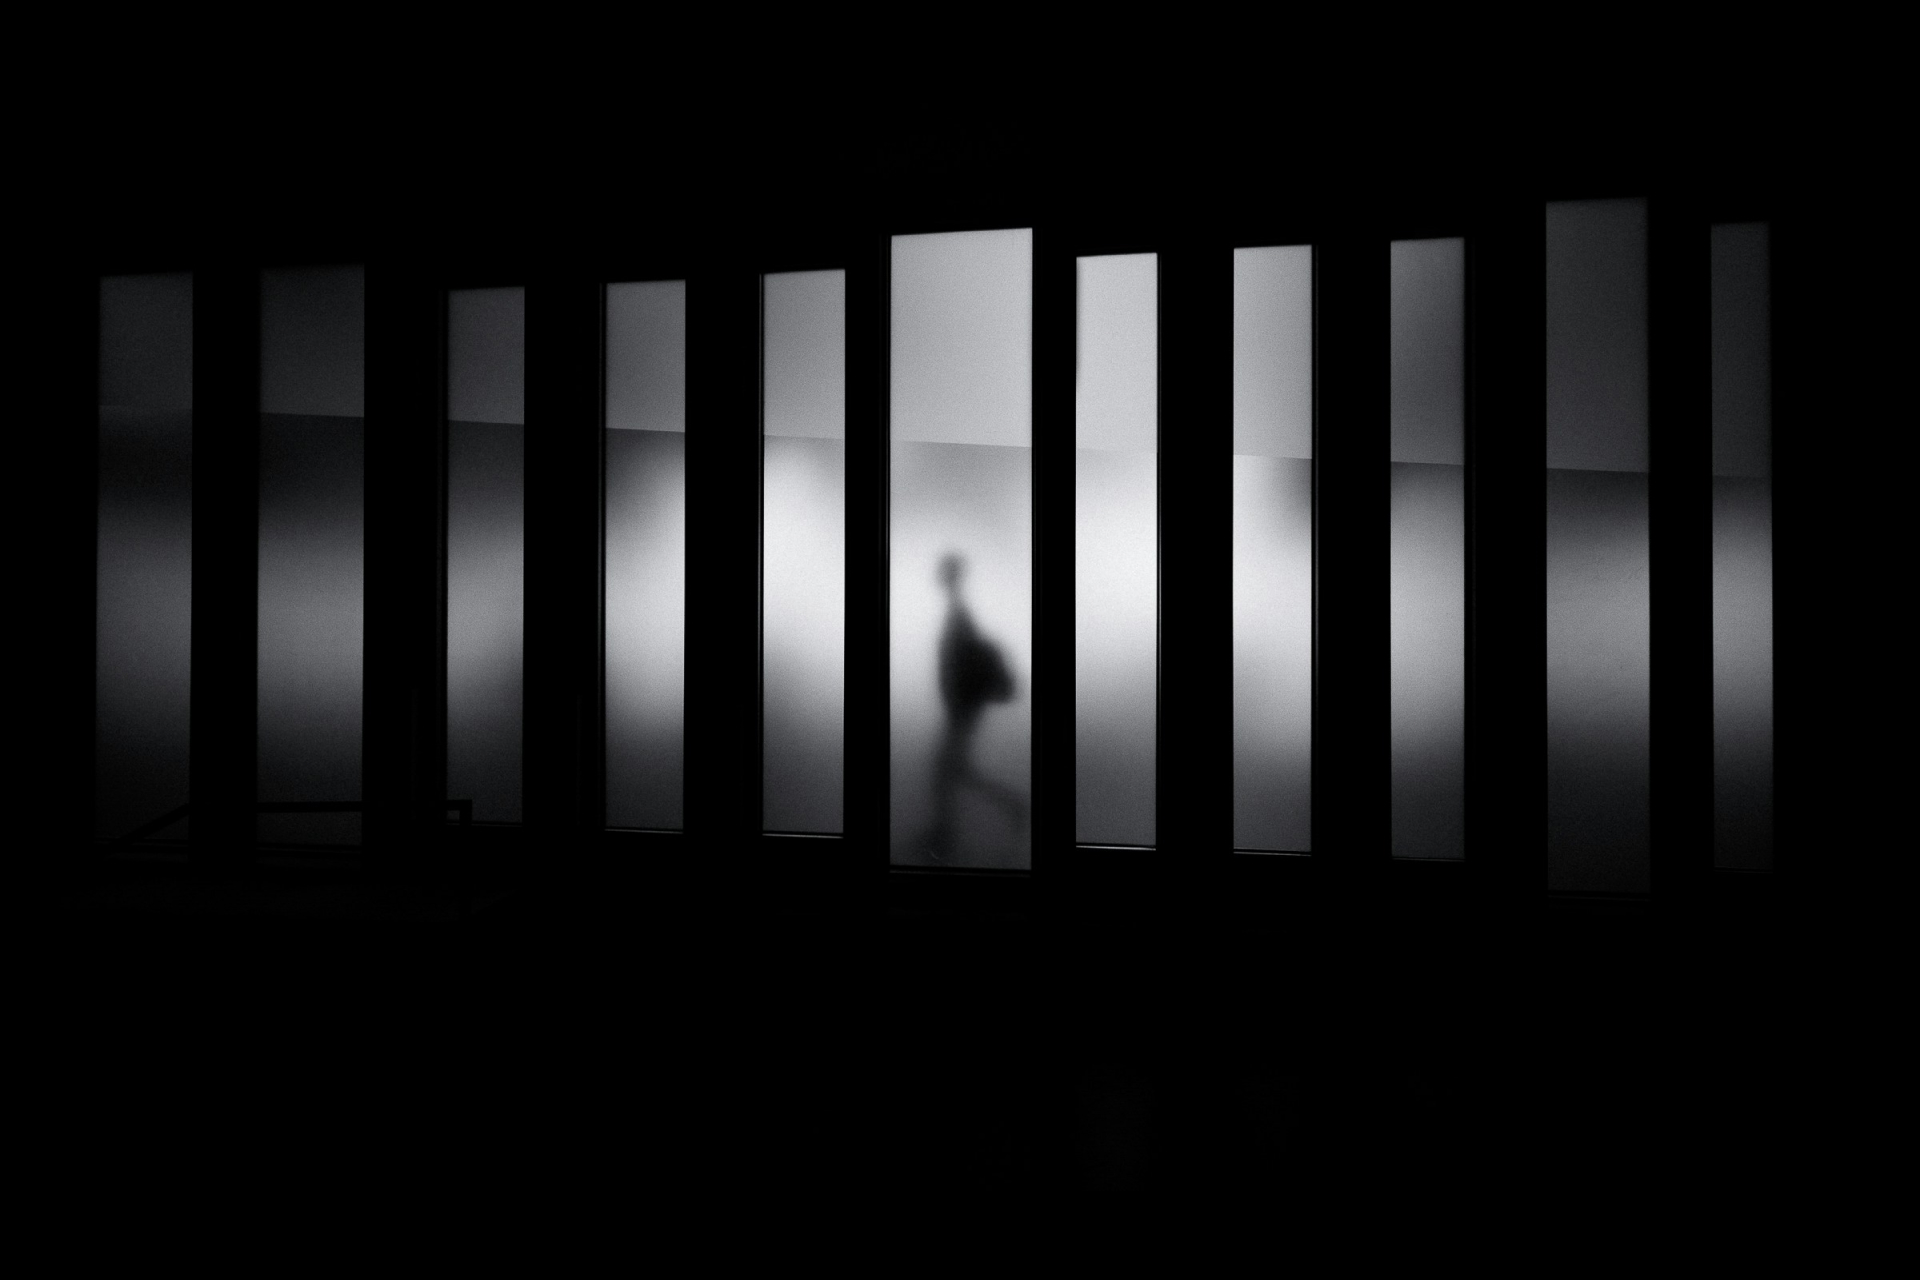
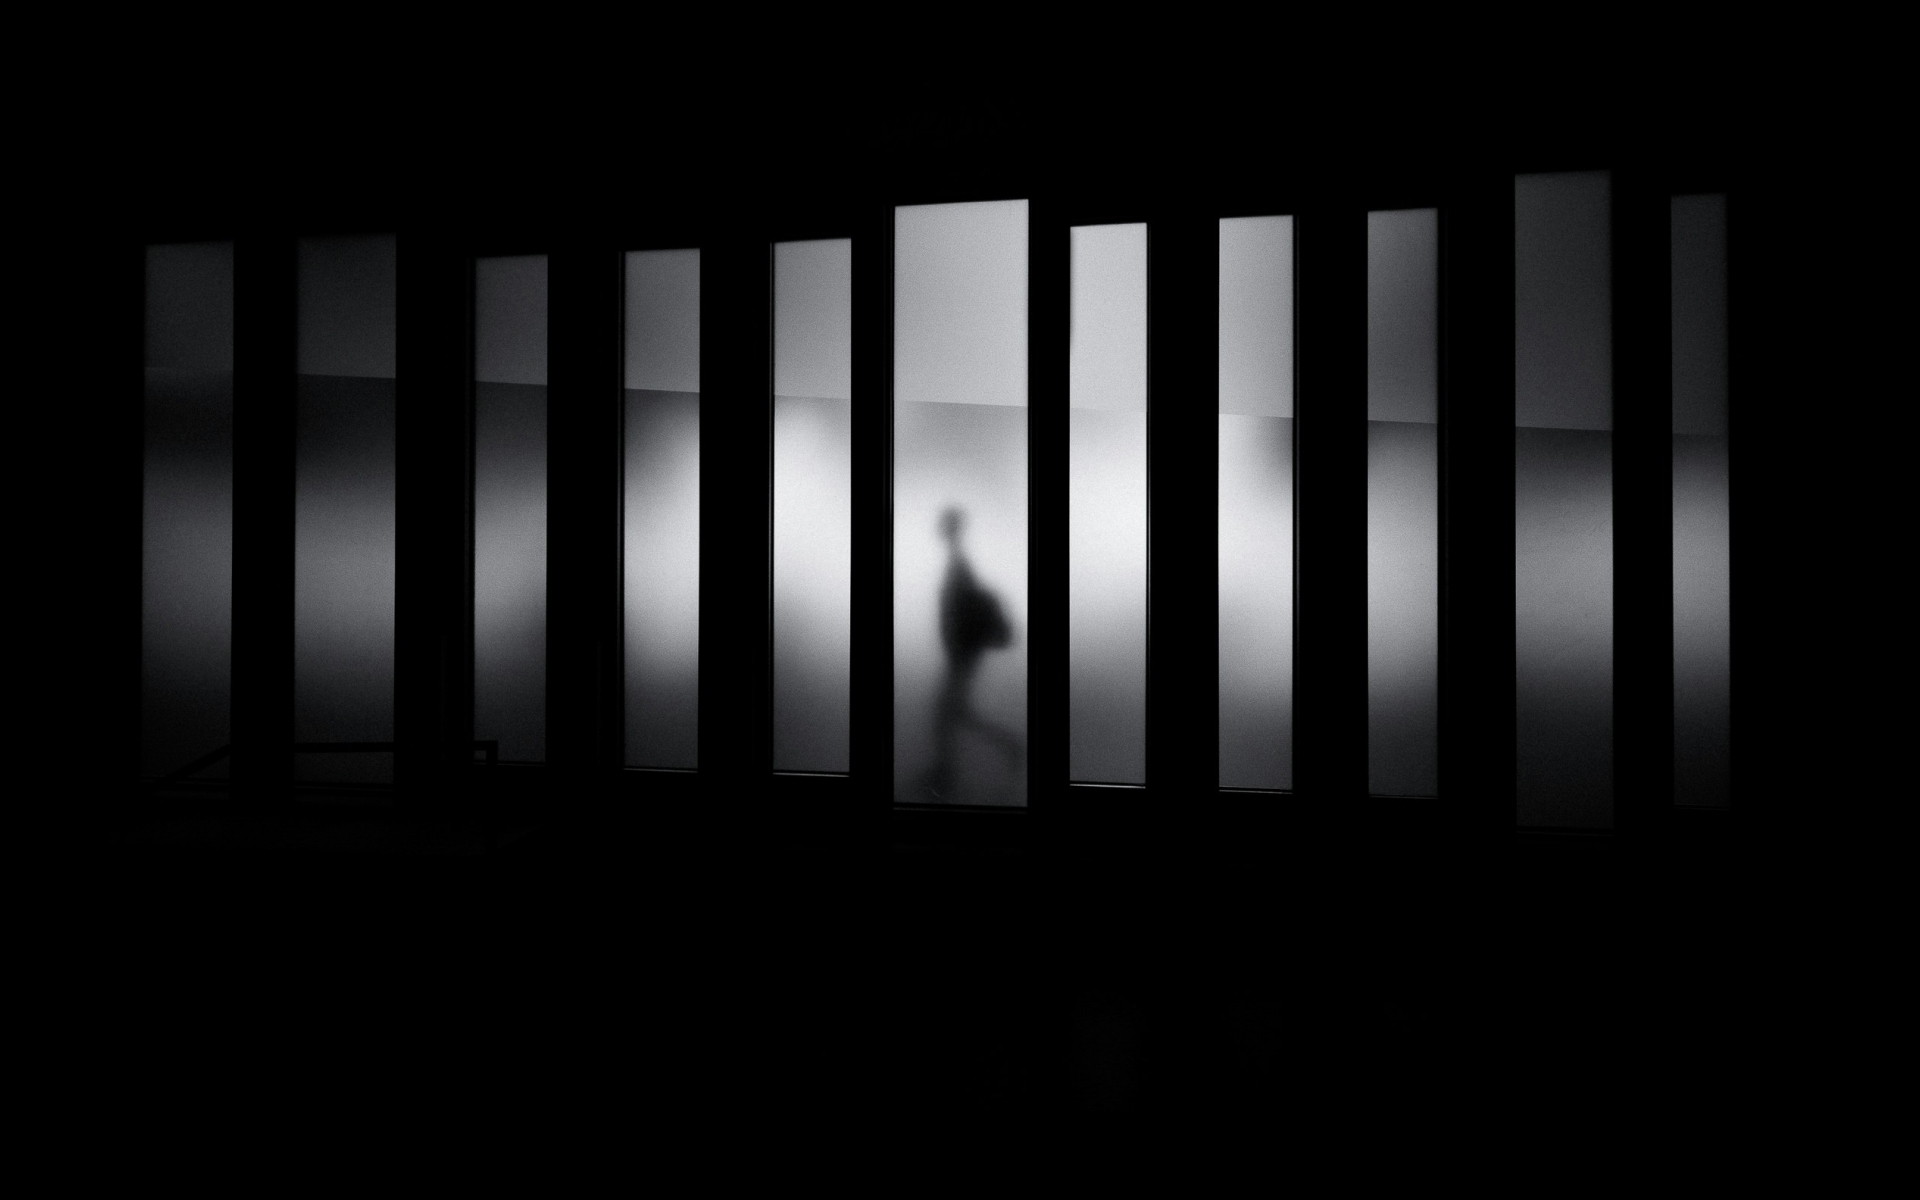
Fix: hero FOUC 현상 개선 및 이미지 변경

Changed region(s): [[0.0312, 0.1233, 0.9375, 0.6783], [0.0312, 0.37, 0.1562, 0.5858], [0.4688, 0.1542, 0.5312, 0.185]]

diff --git a/assets/js/script.js b/assets/js/script.js
@@ -52,7 +52,6 @@ function hero() {
     const heroTl = gsap.timeline()
 
     heroTl
-    .set(".hero__inner", {scale: 0.2})
     .to(".header__inner", {y: 0, duration: 1, delay: 1})
     .to(".hero__img-box:not(:first-child)", {y: 0, stagger: 0.5}, "<")
     .from(".hero__title span:first-child span", {yPercent: -100, duration: 1})

diff --git a/assets/css/style.css b/assets/css/style.css
@@ -612,6 +612,7 @@ body {
   height: 100svh;
   padding-top: 5rem;
   padding-bottom: 3rem;
+  transform: scale(0.2);
 }
 .hero__text-box {
   position: relative;

diff --git a/assets/scss/pages/_main.scss b/assets/scss/pages/_main.scss
@@ -15,6 +15,7 @@
         height:100svh;
         padding-top: 5rem;
         padding-bottom: 3rem;
+        transform: scale(0.2);
     }
 
     &__text-box{
